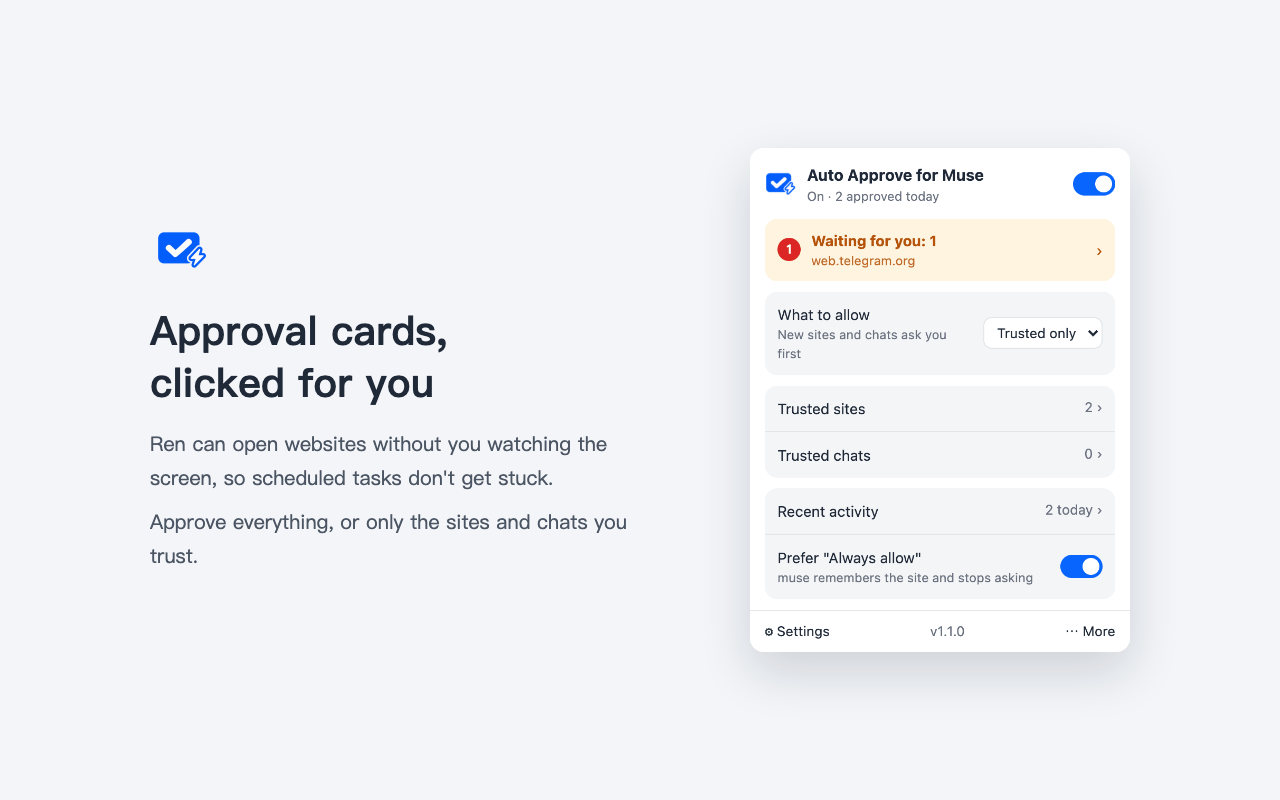
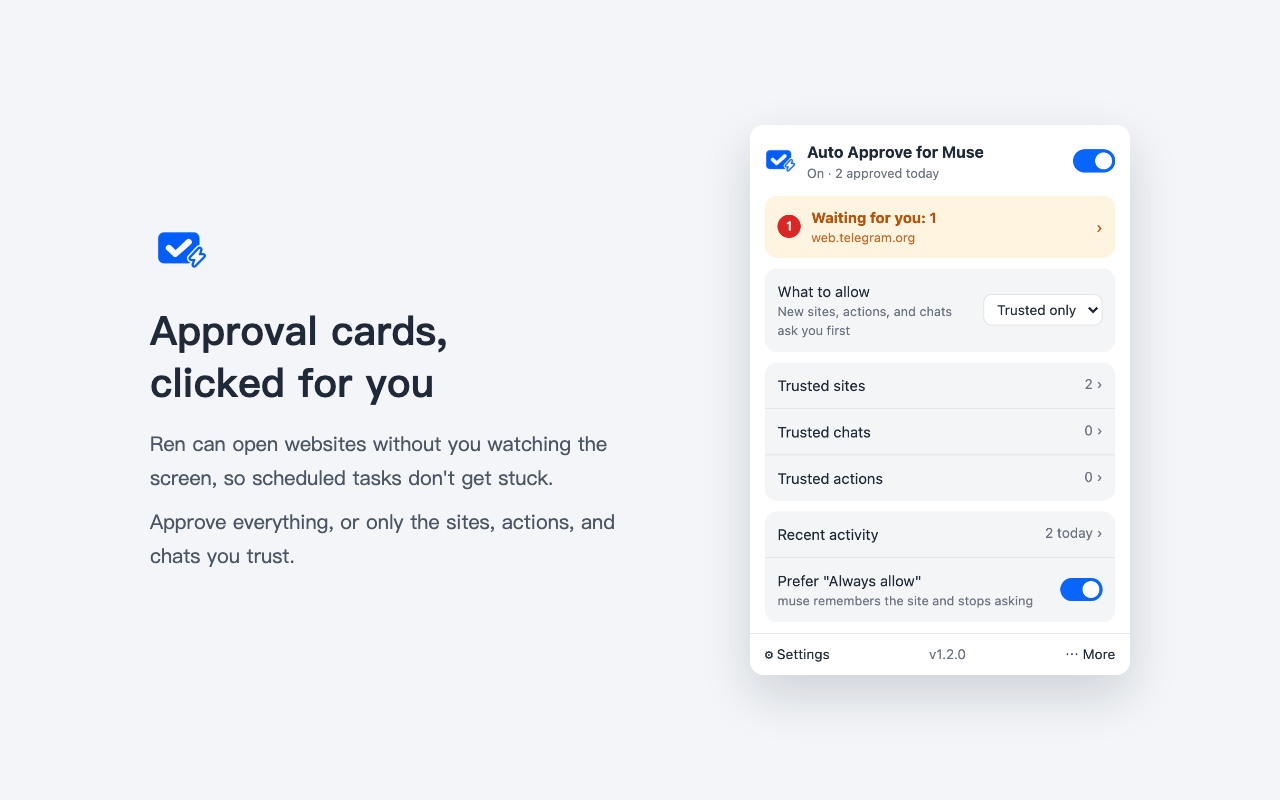
README、隱私權、截圖更新為 1.2.0

diff --git a/store/screenshots.html b/store/screenshots.html
@@ -25,14 +25,14 @@
       <img class="logo" src="../icons/icon128.png" alt="">
       <h1 data-en="Approval cards,<br>clicked for you">審批卡跳出來，<br>自動幫你按允許</h1>
       <p data-en="Ren can open websites without you watching the screen, so scheduled tasks don't get stuck.">Ren 存取網站時不用守著畫面，排程任務不會卡住。</p>
-      <p data-en="Approve everything, or only the sites and chats you trust.">可以全部都按，也可以只按你信任的網站和聊天室。</p>
+      <p data-en="Approve everything, or only the sites, actions, and chats you trust.">可以全部都按，也可以只按你信任的網站、動作和聊天室。</p>
     </div>
     <img class="shot popup" src="../docs/images/zh-TW/popup.png" alt="">
   </section>
   <section class="slide" id="s2">
     <div class="text">
       <h1 data-en="New sites ask first,<br>then it's automatic">新的網站先問你，<br>按一次就記住</h1>
-      <p data-en="When a red number shows up on the toolbar icon, open it and pick how far to trust the request: this site, this site from one chat, the whole chat, or just this once.">工具列出現紅色數字時點開，選要信任到什麼範圍：這個網站、只限某個聊天室、整個聊天室，或只允許這一次。</p>
+      <p data-en="When a red number shows up on the toolbar icon, open it and pick how far to trust it: this site or action, only from one chat, the whole chat, or just this once.">工具列出現紅色數字時點開，選要信任到什麼範圍：這個網站或動作、只限某個聊天室、整個聊天室，或只允許這一次。</p>
       <p data-en="After that, matching requests go through on their own.">之後同樣的請求就直接允許。</p>
     </div>
     <img class="shot popup" src="../docs/images/zh-TW/popup-pending.png" alt="">

diff --git a/store/promo.html b/store/promo.html
@@ -49,7 +49,7 @@
     <div class="left">
       <div class="badge"><img src="../icons/icon128.png" alt=""></div>
       <div class="name">Auto Approve for Muse</div>
-      <div class="line" data-en="Clicks Allow on muse.ai approval cards.<br>Only for the sites and chats you trust.">muse.ai 審批卡跳出來，自動幫你按允許。<br>只允許你信任的網站和聊天室。</div>
+      <div class="line" data-en="Clicks Allow on muse.ai approval cards.<br>Only for the sites, actions, and chats you trust.">muse.ai 審批卡跳出來，自動幫你按允許。<br>只允許你信任的網站、動作和聊天室。</div>
       <div class="line sub" data-en="Unofficial. Not affiliated with Meta or muse.ai.">非官方工具，與 Meta、muse.ai 無關</div>
     </div>
     <div class="shots">

diff --git a/README.md b/README.md
@@ -12,7 +12,7 @@
 
 When the muse.ai assistant tries to open a new or sensitive website, it shows an approval card and waits for you to click "Allow". If nobody is around, the task just sits there, which happens a lot with scheduled tasks.
 
-This Chrome extension clicks Allow for you. You can let it approve everything, or only the sites and chats you trust. If the card offers "Always allow", it picks that one, so the same site won't ask again.
+This Chrome extension clicks Allow for you. You can let it approve everything, or only the sites, actions, and chats you trust. If the card offers "Always allow", it picks that one, so the same site won't ask again.
 
 > This is an unofficial tool and is not affiliated with Meta or muse.ai. Auto-approving removes the human check on what the assistant can access, so make sure you're fine with that.
 
@@ -67,10 +67,12 @@ With "Only what I trust", a card for a site you haven't trusted yet is left alon
 
 - This site, from any chat
 - This site, only from this chat
-- Everything from this chat. Any site that chat asks for gets allowed, so keep this for scheduled tasks you're sure about.
+- Everything from this chat. Anything that chat asks for gets allowed, including posts and messages, so keep this for scheduled tasks you're sure about.
 - Just this once, without remembering anything
 
-The card gets clicked right away, and from then on matching cards are approved without asking. A card is approved if it comes from a trusted chat, or if its site is trusted and either has no chat limit or the card came from one of the chats it's limited to.
+The card gets clicked right away, and from then on matching cards are approved without asking. A card is approved if it comes from a trusted chat, or if its site or action is trusted and either has no chat limit or the card came from one of the chats it's limited to.
+
+Some cards aren't about opening a website. They ask Ren to do something, like posting to Threads or sending a message. For those, the popup offers "This action" instead of "This site", and the action is remembered by the card's title. "Allow everything" leaves action cards alone unless you turn on "Include actions" under Settings > General > Advanced, because a post or a message can't be taken back.
 
 Settings has the full lists. You can limit a site to certain chats, turn an entry off without deleting it, check the activity log, and export or import your settings.
 
@@ -78,8 +80,8 @@ Settings has the full lists. You can limit a site to certain chats, turn an entr
 
 ## How it finds approval cards
 
-- It starts from the Deny button and looks for Allow or Always allow in the same block, so an Allow button anywhere else on the page is never clicked.
-- The card itself has to mention a website, access, the browser, or permissions. Unrelated dialogs such as a delete confirmation are left alone.
+- muse marks its approval cards with `data-testid="hatch-inline-approval-card"`, and the extension only clicks Allow or Always allow inside a marked card, so an Allow button anywhere else on the page is never clicked.
+- If muse ever drops that marker, it falls back to looking for Deny and Allow buttons in the same block, and only when the card text mentions a website, access, the browser, or permissions. Unrelated dialogs such as a delete confirmation are left alone.
 - An approval that comes from another chat only shows up as a banner with a Review button. The extension clicks Review to open the card, then approves it.
 - It won't click the same card twice within 5 seconds, and it clicks Review at most once every 10 seconds. If the card behind a banner isn't trusted, it leaves the banner alone for 10 minutes instead of opening it again and again.
 
@@ -88,8 +90,9 @@ It has only been tested with the Traditional Chinese UI. English and Simplified 
 ## Limitations
 
 - A muse.ai tab has to stay open. If you close it, nothing gets approved.
-- In "Allow everything" mode it approves every card, whatever the site or action.
-- Cards that don't name a website, such as some connector actions, can only be trusted by chat or allowed once.
+- In "Allow everything" mode it approves every website card, and action cards too if you turn that on.
+- Actions are matched by the card title. Trusting "post to Threads" covers every post, whatever the text or account.
+- Cards that appear inside the chat that started the task often don't say which chat they came from, so the "only from this chat" options aren't offered for them.
 - A muse.ai redesign can break the matching. Button labels and the markup of the review banner are the parts most likely to change.
 
 ## Running it around the clock

diff --git a/store/listing.md b/store/listing.md
@@ -2,7 +2,7 @@
 
 上架前先跑 `./scripts/pack.sh`，上傳 `dist/muse-auto-approve-<version>.zip`。
 
-1.1.0 沒有新增權限（還是只有 `storage`），新加的背景 service worker、設定頁、歡迎頁都不需要額外權限。
+1.1.0、1.2.0 都沒有新增權限（還是只有 `storage`），新加的背景 service worker、設定頁、歡迎頁都不需要額外權限。
 
 ## 商店資訊
 
@@ -26,12 +26,13 @@ muse.ai 的助理存取新網站或敏感網站時，會跳一張審批卡等你
 
 這個插件會幫你按。你可以選：
 
-・只允許我信任的（推薦）：第一次遇到新的網站或聊天室會先問你。工具列圖示出現紅色數字時點開，選要信任到什麼範圍，按一次就記住
-・全部自動允許：Ren 要開什麼都直接允許
+・只允許我信任的（推薦）：第一次遇到新的網站、動作或聊天室會先問你。工具列圖示出現紅色數字時點開，選要信任到什麼範圍，按一次就記住
+・全部自動允許：Ren 要開什麼網站都直接允許；發文、傳訊息這類動作預設還是會先問你，可以在設定打開
 
 其他功能：
 
-・信任範圍可以選「這個網站」「只限某個聊天室」「整個聊天室」或「只允許這一次」
+・信任範圍可以選「這個網站」「這個動作」「只限某個聊天室」「整個聊天室」或「只允許這一次」
+・發文到 Threads 這類動作卡也認得到，可以信任整個動作
 ・設定頁可以管理完整清單、把網站限定在某些聊天室、先停用不刪掉、看紀錄、匯出匯入設定
 ・審批來自其他聊天室時，會先按「檢閱」把卡片叫出來
 ・有「一律允許」時優先按，同一個網站之後就不會再問
@@ -50,12 +51,13 @@ When the muse.ai assistant tries to open a new or sensitive website, it shows an
 
 This extension clicks it for you. Pick how it works:
 
-- Only what I trust (recommended): the first time a new site or chat shows up, it asks you. A red number appears on the toolbar icon. Open it, choose how far to trust the request, and it's remembered.
-- Allow everything: whatever Ren asks for is allowed.
+- Only what I trust (recommended): the first time a new site, action, or chat shows up, it asks you. A red number appears on the toolbar icon. Open it, choose how far to trust the request, and it's remembered.
+- Allow everything: every website Ren asks for is allowed. Actions like posting or messaging still ask first unless you turn them on in Settings.
 
 Also:
 
-- Trust a site, a site only from one chat, a whole chat, or just allow once
+- Trust a site, an action, either one only from one chat, a whole chat, or just allow once
+- Recognizes action cards such as posting to Threads
 - Settings has the full lists: limit a site to certain chats, turn entries off without deleting them, see the activity log, and export or import your settings
 - Opens review banners for approvals that come from other chats
 - Prefers "Always allow" when available, so the same site isn't asked again
@@ -71,7 +73,7 @@ This is an unofficial tool and is not affiliated with Meta or muse.ai. Source co
 ## 隱私權做法
 
 - 單一用途：在 muse.ai 頁面自動按下審批卡的允許按鈕。 / Automatically clicks the approve button on muse.ai approval cards.
-- `storage` 權限用途：儲存模式、信任的網站和聊天室（chrome.storage.sync，Chrome 會在使用者自己登入的瀏覽器之間同步），以及最近 200 筆審批紀錄（只在本機）。 / Stores the mode and the trusted sites and chats (chrome.storage.sync, synced by Chrome between the user's own signed-in browsers) and the last 200 approval records (local only).
+- `storage` 權限用途：儲存模式、信任的網站、動作和聊天室（chrome.storage.sync，Chrome 會在使用者自己登入的瀏覽器之間同步），以及最近 200 筆審批紀錄（只在本機）。 / Stores the mode and the trusted sites, actions, and chats (chrome.storage.sync, synced by Chrome between the user's own signed-in browsers) and the last 200 approval records (local only).
 - 主機權限（content script 限 `muse.ai`）用途：需要讀取 muse.ai 頁面找出審批卡並點擊允許按鈕，不在其他網站執行。 / Needed to find approval cards on muse.ai pages and click the approve button. It does not run on any other site.
 - 遠端程式碼：否，所有程式碼都在套件內。 / No remote code.
 - 資料使用：不收集任何使用者資料，三個聲明（不販售、不用於無關用途、不用於信用評估）都勾選。

diff --git a/README.zh-TW.md b/README.zh-TW.md
@@ -12,7 +12,7 @@
 
 muse.ai 的助理存取新網站或敏感網站時，會跳一張審批卡等你按「允許」。沒人按，任務就卡在那裡，排程任務特別常遇到。
 
-這個 Chrome 插件看到審批卡就自動幫你按允許。可以全部都按，也可以只按你信任的網站和聊天室。有「一律允許」時優先按它，之後同一個網站就不會再問。
+這個 Chrome 插件看到審批卡就自動幫你按允許。可以全部都按，也可以只按你信任的網站、動作和聊天室。有「一律允許」時優先按它，之後同一個網站就不會再問。
 
 > 非官方工具，與 Meta、muse.ai 無關。自動允許等於關掉人工確認這一關，請自行評估風險。
 
@@ -67,10 +67,12 @@ irm https://raw.githubusercontent.com/homieyangg/muse-auto-approve/main/install.
 
 - 這個網站（任何聊天室）
 - 這個網站，只限這個聊天室
-- 這個聊天室的所有請求：它要開任何網站都會直接允許，只給你很確定的排程用
+- 這個聊天室的所有請求：它要開任何網站、發文、傳訊息都會直接允許，只給你很確定的排程用
 - 只允許這一次，不記住
 
-選好後那張卡會馬上被按掉，之後符合的卡就直接允許。判斷方式是：來自信任的聊天室；或網站在信任清單裡，而且沒限定聊天室，或來源正好是它限定的聊天室。
+選好後那張卡會馬上被按掉，之後符合的卡就直接允許。判斷方式是：來自信任的聊天室；或網站、動作在信任清單裡，而且沒限定聊天室，或來源正好是它限定的聊天室。
+
+有些卡不是要開網站，而是要 Ren 做一件事，例如發文到 Threads、傳訊息。這種卡在 popup 裡的選項是「這個動作」，插件用卡片標題記住這個動作。「全部自動允許」預設不會按這種動作卡，因為發出去的文章和訊息收不回來；要一起按的話，到「設定 → 一般 → 進階」打開「全部允許時也按動作卡」。
 
 設定頁有完整的清單。可以把網站限定在某些聊天室、先停用某一筆但不刪掉、看紀錄，還有匯出匯入設定。
 
@@ -78,8 +80,8 @@ irm https://raw.githubusercontent.com/homieyangg/muse-auto-approve/main/install.
 
 ## 怎麼找到審批卡
 
-- 先找「拒絕 / Deny」按鈕，再找同一區塊裡的「一律允許」或「允許」。卡片外的「允許」不會被點到。
-- 卡片本身的文字要提到網站、存取、瀏覽器、權限這類字眼才會按，刪除確認這類對話框不會動。
+- muse 會把審批卡標上 `data-testid="hatch-inline-approval-card"`，插件只在有這個標記的卡片裡按「一律允許」或「允許」，卡片外的「允許」不會被點到。
+- 萬一 muse 拿掉這個標記，會改用舊的判斷：同一區塊裡要有「拒絕」和「允許」，而且卡片文字要提到網站、存取、瀏覽器、權限這類字眼才會按，刪除確認這類對話框不會動。
 - 審批來自別的聊天室時，目前畫面只會顯示「一項工作需要檢閱」。插件會先按「檢閱」把卡片叫出來，再按允許。
 - 同一張卡 5 秒內不會重按，「檢閱」最多 10 秒按一次。叫出來的卡如果不在信任清單裡，同一個提示 10 分鐘內不會再一直點開。
 
@@ -88,8 +90,9 @@ irm https://raw.githubusercontent.com/homieyangg/muse-auto-approve/main/install.
 ## 限制
 
 - muse.ai 的分頁要開著才有用，關掉就沒人按了。
-- 「全部自動允許」模式下，每張審批卡都會按，不分網站或動作類型。
-- 沒寫網站的卡（例如某些連接器動作），只能用信任聊天室或「只允許這一次」處理。
+- 「全部自動允許」模式下，存取網站的卡都會按；動作卡要另外打開開關才會按。
+- 動作是用卡片標題比對的。信任「發文到 Threads」之後，不管內容或帳號，發文都會自動允許。
+- 在發起任務的那個聊天室裡直接跳出來的卡，通常沒寫來自哪個聊天室，所以不會有「只限這個聊天室」的選項。
 - muse 改版可能讓判斷失效，最可能出問題的是按鈕文字和「檢閱」提示的結構。
 
 ## 讓它 24 小時跑

diff --git a/PRIVACY.md b/PRIVACY.md
@@ -3,7 +3,7 @@
 Auto Approve for Muse does not collect, sell, or share any user data. It has no server and makes no network requests of its own.
 
 - The extension only runs on `muse.ai` pages. It reads the page to find approval cards and clicks the approve button.
-- Your settings (on/off, mode, preferences, language) and your trusted sites and chats are stored with `chrome.storage.sync`. If you are signed in to Chrome, Chrome syncs them between your own browsers through your Google account, the same way it syncs other extension settings. The developer never receives them.
+- Your settings (on/off, mode, preferences, language) and your trusted sites, actions, and chats are stored with `chrome.storage.sync`. If you are signed in to Chrome, Chrome syncs them between your own browsers through your Google account, the same way it syncs other extension settings. The developer never receives them.
 - The activity log (the last 200 approval cards, with time, site, and chat name) and the requests waiting for your decision are stored only on your device in `chrome.storage.local` and `chrome.storage.session`. You can clear the log at any time, and everything is removed when the extension is uninstalled.
 - Export creates a file on your computer that only you can see. Nothing is uploaded.
 
@@ -14,7 +14,7 @@ If you have questions, open an issue at https://github.com/homieyangg/muse-auto-
 Auto Approve for Muse 不收集、不販售、也不分享任何使用者資料。插件沒有伺服器，自己不會發送任何網路請求。
 
 - 插件只在 `muse.ai` 頁面執行，讀取頁面來找審批卡並按下允許。
-- 設定（開關、模式、偏好、語言）和信任的網站、聊天室存在 `chrome.storage.sync`。你有登入 Chrome 的話，Chrome 會透過你的 Google 帳號在你自己的瀏覽器之間同步，跟其他插件設定一樣。開發者不會拿到這些資料。
+- 設定（開關、模式、偏好、語言）和信任的網站、動作、聊天室存在 `chrome.storage.sync`。你有登入 Chrome 的話，Chrome 會透過你的 Google 帳號在你自己的瀏覽器之間同步，跟其他插件設定一樣。開發者不會拿到這些資料。
 - 紀錄（最近 200 筆審批卡的時間、網站和聊天室名稱）和等你決定的請求，只存在你裝置上的 `chrome.storage.local` 與 `chrome.storage.session`。紀錄可以隨時清除，移除插件時也會一起刪掉。
 - 匯出的設定檔只會存到你自己的電腦，不會上傳。
 
